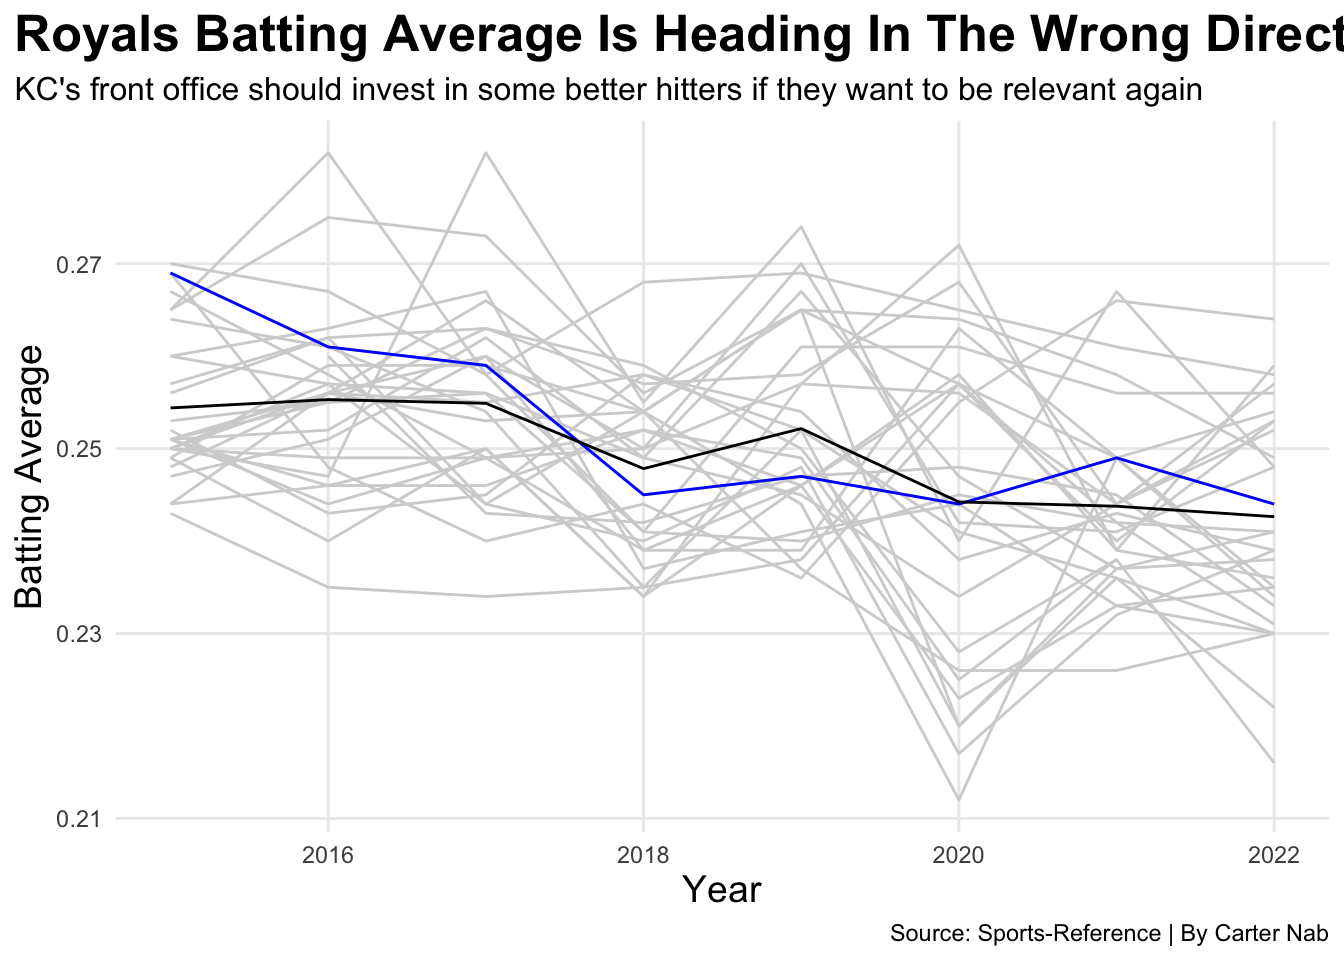
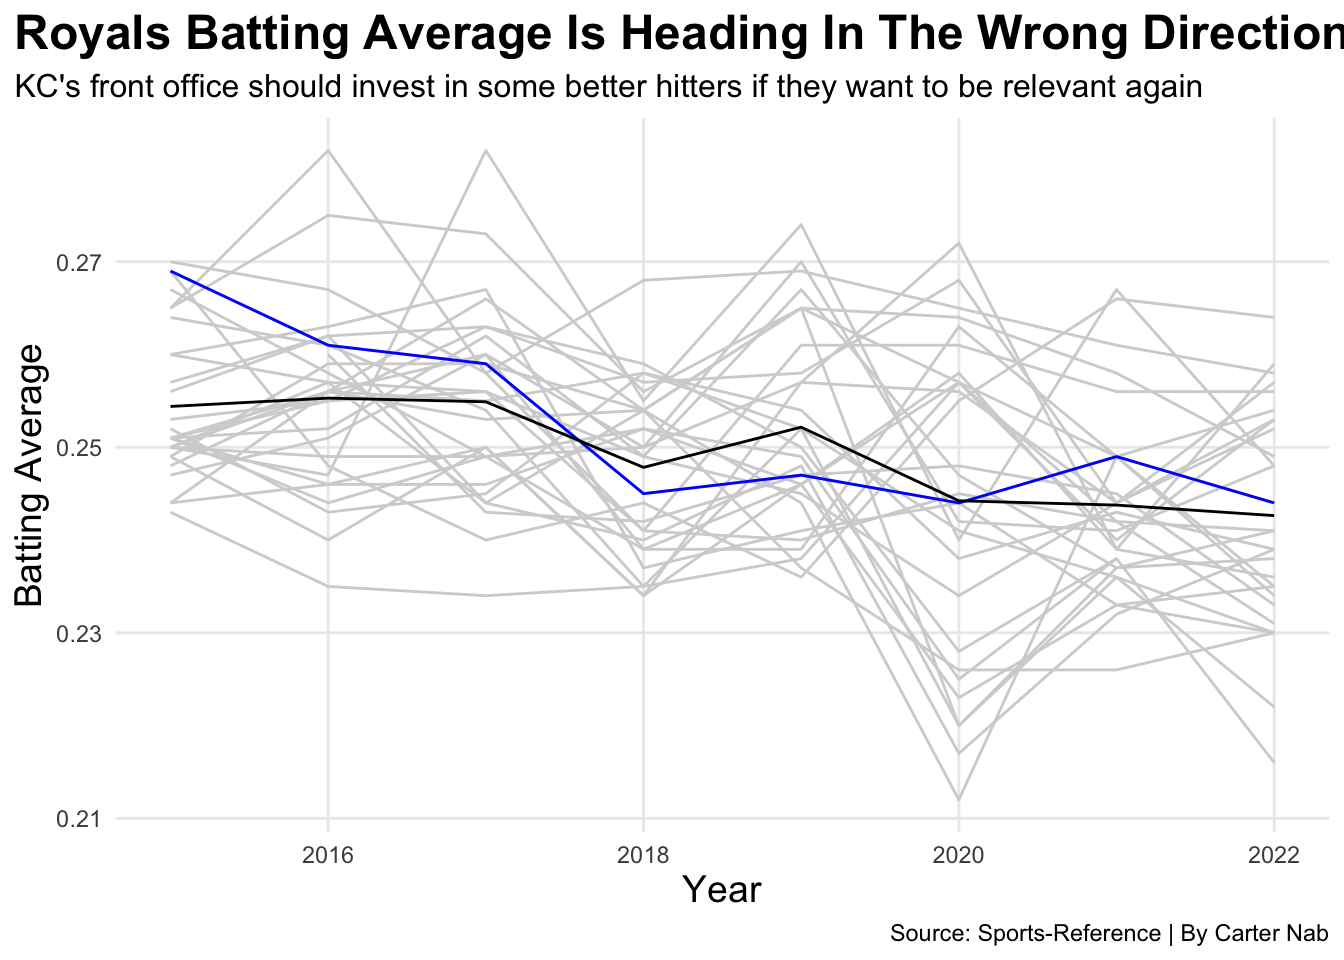
more changes

diff --git a/posts/the-downfall-of-the-royals/index.html b/posts/the-downfall-of-the-royals/index.html
@@ -660,7 +660,7 @@ dbl (28): #Bat, BatAge, R/G, G, PA, AB, R, H, 2B, 3B, HR, RBI, SB, CS, BB, S...
 <span id="cb56-16"><a href="#cb56-16" aria-hidden="true" tabindex="-1"></a>    ) <span class="sc">+</span></span>
 <span id="cb56-17"><a href="#cb56-17" aria-hidden="true" tabindex="-1"></a>  <span class="fu">theme_minimal</span>() <span class="sc">+</span></span>
 <span id="cb56-18"><a href="#cb56-18" aria-hidden="true" tabindex="-1"></a>  <span class="fu">theme</span>(</span>
-<span id="cb56-19"><a href="#cb56-19" aria-hidden="true" tabindex="-1"></a>      <span class="at">plot.title =</span> <span class="fu">element_text</span>(<span class="at">size =</span> <span class="dv">19</span>, <span class="at">face =</span> <span class="st">"bold"</span>),</span>
+<span id="cb56-19"><a href="#cb56-19" aria-hidden="true" tabindex="-1"></a>      <span class="at">plot.title =</span> <span class="fu">element_text</span>(<span class="at">size =</span> <span class="dv">18</span>, <span class="at">face =</span> <span class="st">"bold"</span>),</span>
 <span id="cb56-20"><a href="#cb56-20" aria-hidden="true" tabindex="-1"></a>    <span class="at">axis.title =</span> <span class="fu">element_text</span>(<span class="at">size =</span> <span class="dv">14</span>), </span>
 <span id="cb56-21"><a href="#cb56-21" aria-hidden="true" tabindex="-1"></a>    <span class="at">plot.subtitle =</span> <span class="fu">element_text</span>(<span class="at">size=</span><span class="dv">12</span>), </span>
 <span id="cb56-22"><a href="#cb56-22" aria-hidden="true" tabindex="-1"></a>    <span class="at">panel.grid.minor =</span> <span class="fu">element_blank</span>(),</span>

diff --git a/index.html b/index.html
@@ -157,7 +157,7 @@ ul.task-list{list-style: none;}
 
 <div class="quarto-listing quarto-listing-container-default" id="listing-listing">
 <div class="list quarto-listing-default">
-<div class="quarto-post image-right" data-index="0" data-categories="royals,code,analysis" data-listing-date-sort="1649653200000" data-listing-file-modified-sort="1667765263608" data-listing-reading-time-sort="3.215">
+<div class="quarto-post image-right" data-index="0" data-categories="royals,code,analysis" data-listing-date-sort="1649653200000" data-listing-file-modified-sort="1667765868904" data-listing-reading-time-sort="3.245">
 <div class="thumbnail">
 <p><a href="./posts/the-downfall-of-the-royals/index.html"> <img src="./posts/the-downfall-of-the-royals/image.png" class="thumnail-image"> </a></p>
 </div>
